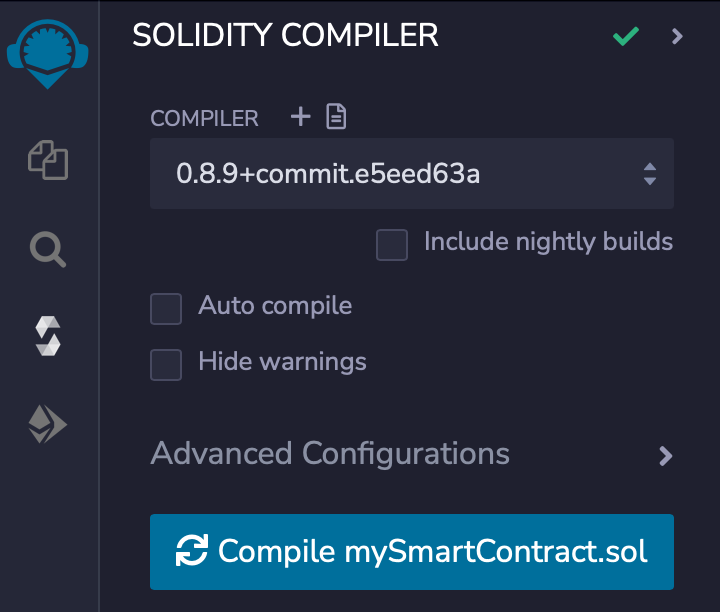
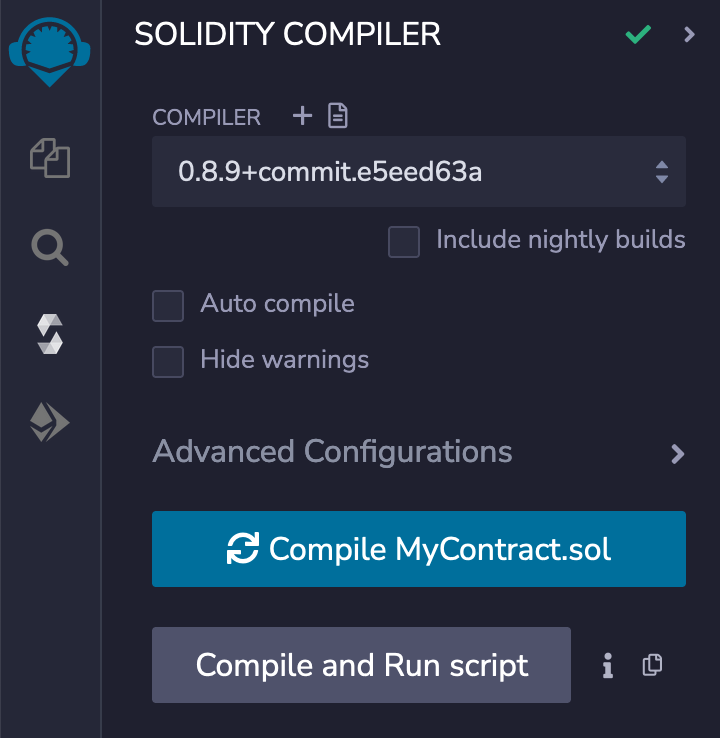
change contract name

diff --git a/docs/guides/dapis/call-dapi-dapiserver/index.md b/docs/guides/dapis/call-dapi-dapiserver/index.md
@@ -1,5 +1,5 @@
 ---
-title: Call a dAPI (DapServer.sol)
+title: Call a dAPI (DapServer contract)
 sidebarHeader: Guides
 sidebarSubHeader:
 pageHeader: Guides → dAPIs
@@ -22,8 +22,8 @@ functions to call a dAPI.
 
 ::: tip
 
-The preferred method of calling a dAPI is to use a proxy acquired from the
-[API3 Market](https://market.api3.org/dapis). Please take a look at the
+The preferred method of calling a dAPI is to use a proxy contract acquired from
+the [API3 Market](https://market.api3.org/dapis). Please take a look at the
 [Call dAPI (proxy)](./../call-dapi-proxy/index.md) guide.
 
 :::
@@ -32,18 +32,18 @@ The preferred method of calling a dAPI is to use a proxy acquired from the
 
 [Click here](https://remix.ethereum.org/#version=soljson-v0.8.9+commit.e5eed63a.js&optimize=false&runs=200&gist=b7ea11d6ec335a5c07b4e53e18f64703)
 to open Remix pre-loaded with a workspace and a single smart contract called
-`mySmartContract.sol` pulled from a gist on GitHub.
+`MyContract.sol` pulled from a gist on GitHub.
 
 Optionally consider renaming the Remix workspace (now called gist-sample) to
-**Call a dAPI (DapiServer)** using the hamburger menu. This will separate this
+"Call a dAPI (DapiServer)" using the hamburger menu. This will separate this
 guide from other guides provided in these docs.
 
 <img src="./assets/workspace-setup.png" style="width:50%;border:1px solid gray;">
 
 ## 2. Understanding the smart contract
 
-In Remix click on the contract named `mySmartContract.sol` to view its source
-code. This smart contract imports `DapiServer.sol` and uses the function
+In Remix click on the contract named `MyContract.sol` to view its source code.
+This smart contract imports `DapiServer.sol` and uses the function
 `readDataFeedWithDapiName(_dapi)` which populates the contract variables `value`
 and `timestamp`. This function is one of
 [four functions](/reference/dapis/functions/read-data-feed-with-dapi-name.html)
@@ -51,8 +51,8 @@ available to call a dAPI.
 
 ## 3. Compile the contract
 
-Select the **SOLIDITY COMPILER** pane and compile `mySmartContract.sol`. Note
-the version of the compiler matches the contract's declaration.
+Select the **SOLIDITY COMPILER** pane and compile `MyContract.sol`. Note the
+version of the compiler matches the contract's declaration.
 
 ::: tip
 
@@ -67,9 +67,9 @@ workspace.
 ## 4. MetaMask and Mumbai
 
 The dAPI used for this guide is **AVAX/USD** on the Polygon Mumbai testnet. You
-will be deploying the smart contract `mySmartContract.sol` onto Mumbai. If you
-do not have Mumbai setup in MetaMask use the MetaMask criteria below to add
-Mumbai to MetaMask.
+will be deploying the smart contract `MyContract.sol` onto Mumbai. If you do not
+have Mumbai setup in MetaMask use the MetaMask criteria below to add Mumbai to
+MetaMask.
 
 ::: details Expand to view: MetaMask criteria for Mumbai.
 
@@ -83,7 +83,7 @@ If you need additional help connecting MetaMask to the Mumbai testnet
 Be sure MetaMask is set to an account you wish to use. Use this
 [faucet](https://faucet.polygon.technology/) to acquire test MATIC for Mumbai.
 
-## 5. Deploy `mySmartContract.sol`
+## 5. Deploy `MyContract.sol`
 
 Select the **DEPLOY & RUN TRANSACTIONS** pane. Set **ENVIRONMENT** to "Injected
 Provider - MetaMask" which should show "Custom (80001) network" below if you
@@ -120,7 +120,7 @@ Because you are calling a dAPI on a testnet, a subscription for the dAPI
 for your smart contract to call the dAPI.
 
 Copy the address of the smart contract. Select copy icon to the right of the
-contract name, `mySmartContract.sol`.
+contract name, `MyContract.sol`.
 
 <img src="./assets/copy-address.png" style="width:50%;border:1px solid gray;">
 
@@ -133,10 +133,10 @@ page.
 
 Select the **Connect Wallet** button to activate MetaMask. Once activated select
 the **Get Access** button to interact with MetaMask and facilitate the
-transaction. Your contract `mySmartContract.sol` now has permission to call the
+transaction. Your contract `MyContract.sol` now has permission to call the
 AVAX/USD dAPI.
 
-## 7. Call `mySmartContract` function `callDapi()`
+## 7. Call `MyContract` function `callDapi()`
 
 Next call the function `callDapi()` on your newly deployed smart contract. It
 will require two parameters.
@@ -155,9 +155,10 @@ will require two parameters.
 
 <img src="./assets/call-function.png" style="width:50%;border:1px solid gray;">
 
-Add the two parameters and select the **transact** button to interact with
-MetaMask and complete the transaction. Once the transaction is completed the
-smart contract's variables `timestamp` and `value` have been populated.
+Add the two parameters (no spaces) and select the **transact** button to
+interact with MetaMask and complete the transaction. Once the transaction is
+completed the smart contract's variables `timestamp` and `value` have been
+populated.
 
 ## 8. View `timestamp` and `value`
 

diff --git a/docs/guides/dapis/call-dapi-proxy/index.md b/docs/guides/dapis/call-dapi-proxy/index.md
@@ -1,5 +1,5 @@
 ---
-title: Call a dAPI (proxy)
+title: Call a dAPI (proxy contract)
 sidebarHeader: Guides
 sidebarSubHeader:
 pageHeader: Guides → dAPIs
@@ -14,11 +14,32 @@ tags:
 
 # {{$frontmatter.title}}
 
-This guide will use a simple workspace in the Remix IDE created from a GitHub
-gist. You will deploy a simple smart contract onto the Goerli network that calls
-a dAPI proxy created on the [API3 Market](). This is the preferred method to
-call a dAPI.
+::: tip API3 Market
 
-<!-- Workflow by Ben on the Market and proxy contracts.
-https://www.figma.com/file/dsK6s1dIcTkZjoXUs4D9iK/Journey-Map?node-id=0%3A1
--->
+Using a proxy contract from the [API3 Market](https://market.api3.org) is the
+preferred method to call dAPIs.
+
+:::
+
+This guide will use a simple workspace in the Remix IDE created from a GitHub
+gist. You will deploy a simple smart contract onto the Polygon Mumbai testnet
+that calls a dAPI proxy contract created on the [API3 Market](). This is the
+preferred method to call a dAPI.
+
+With proxy contracts from the API3 Market you can acquire the value of a dAPI
+such as AVAX/USD. Each proxy contract is tied to a single dAPI. This allows
+dAPIs to be used like libraries.
+
+## Load the Remix workspace
+
+## Understanding the smart contract
+
+## Compile the contract
+
+## Sign up to use a proxy
+
+## MetaMask and Mumbai
+
+## Call `mySmartContract` function `getDapi()`
+
+## View timestamp and value

diff --git a/docs/guides/dapis/index.md b/docs/guides/dapis/index.md
@@ -13,3 +13,7 @@ tags:
 <SearchHighlight/>
 
 # {{$frontmatter.title}}
+
+<!-- Workflow by Ben on the Market and proxy contracts.
+https://www.figma.com/file/dsK6s1dIcTkZjoXUs4D9iK/Journey-Map?node-id=0%3A1
+-->
